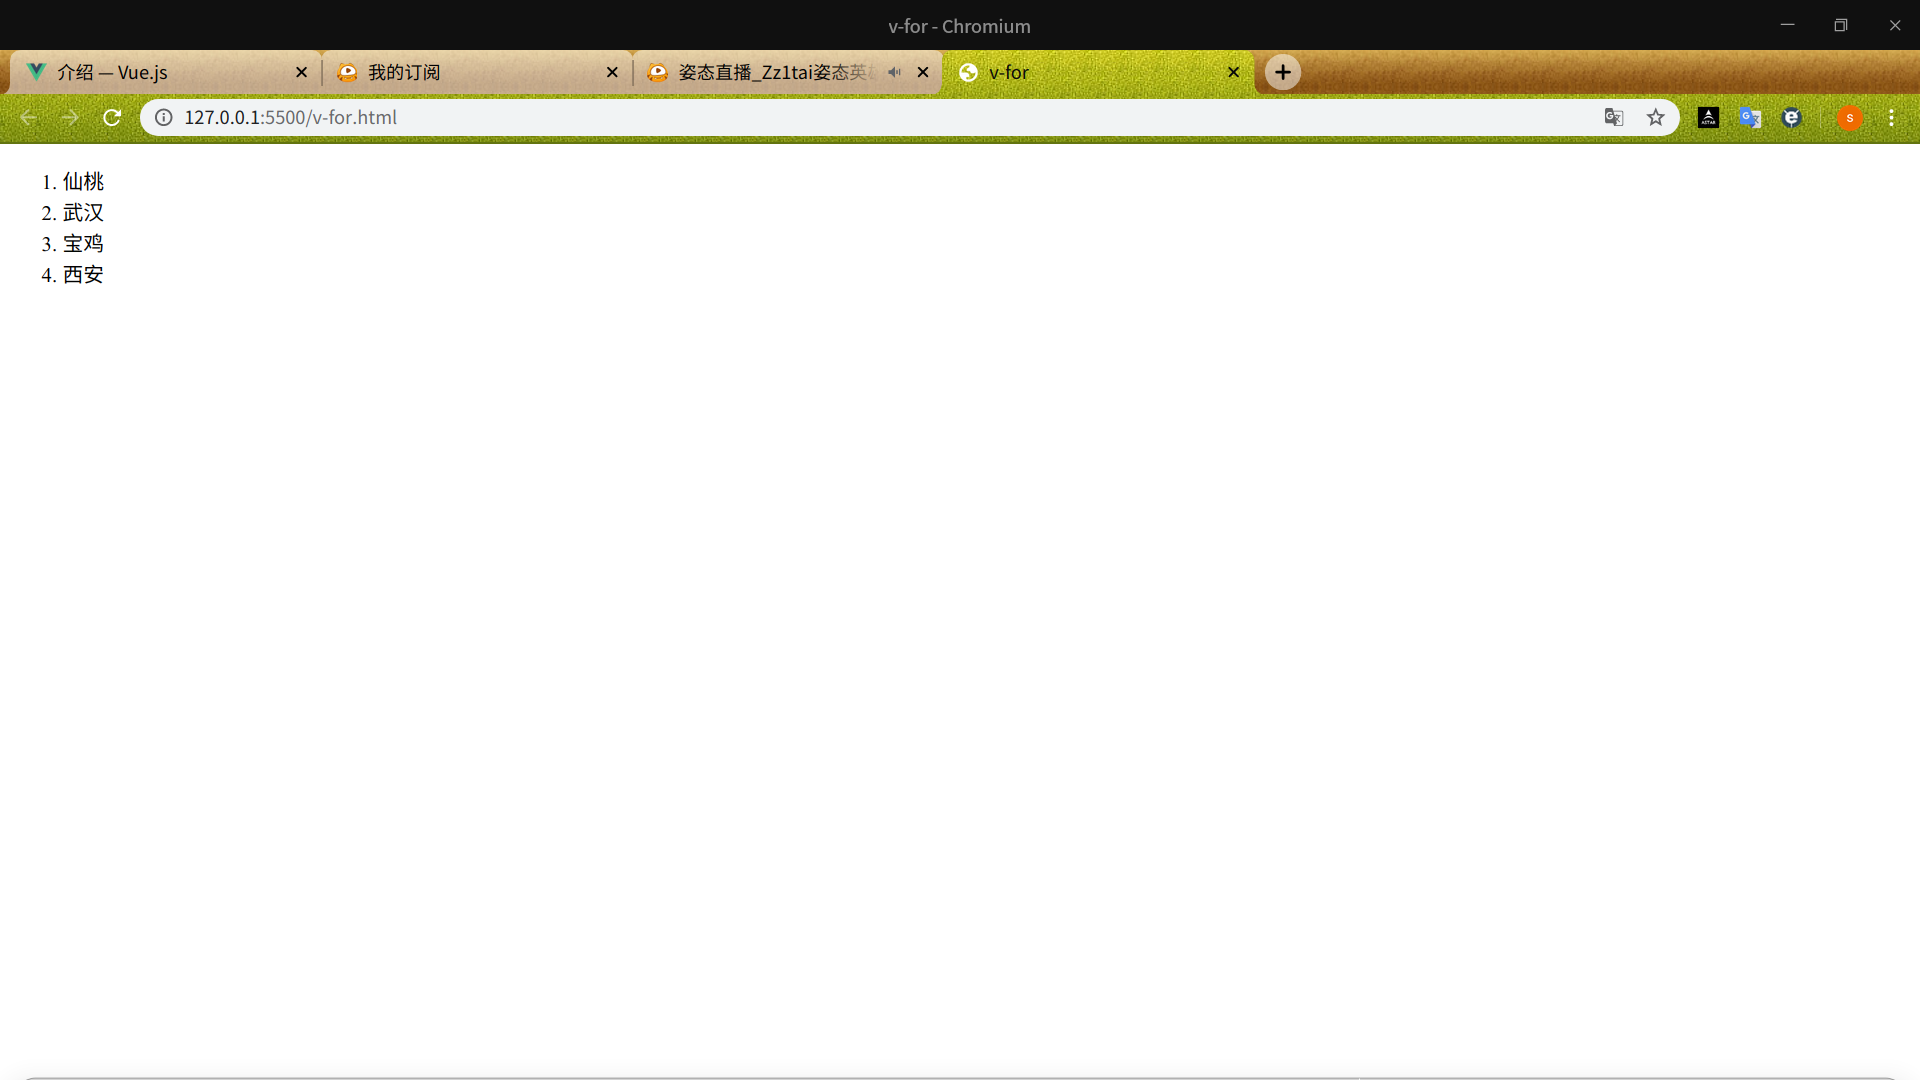
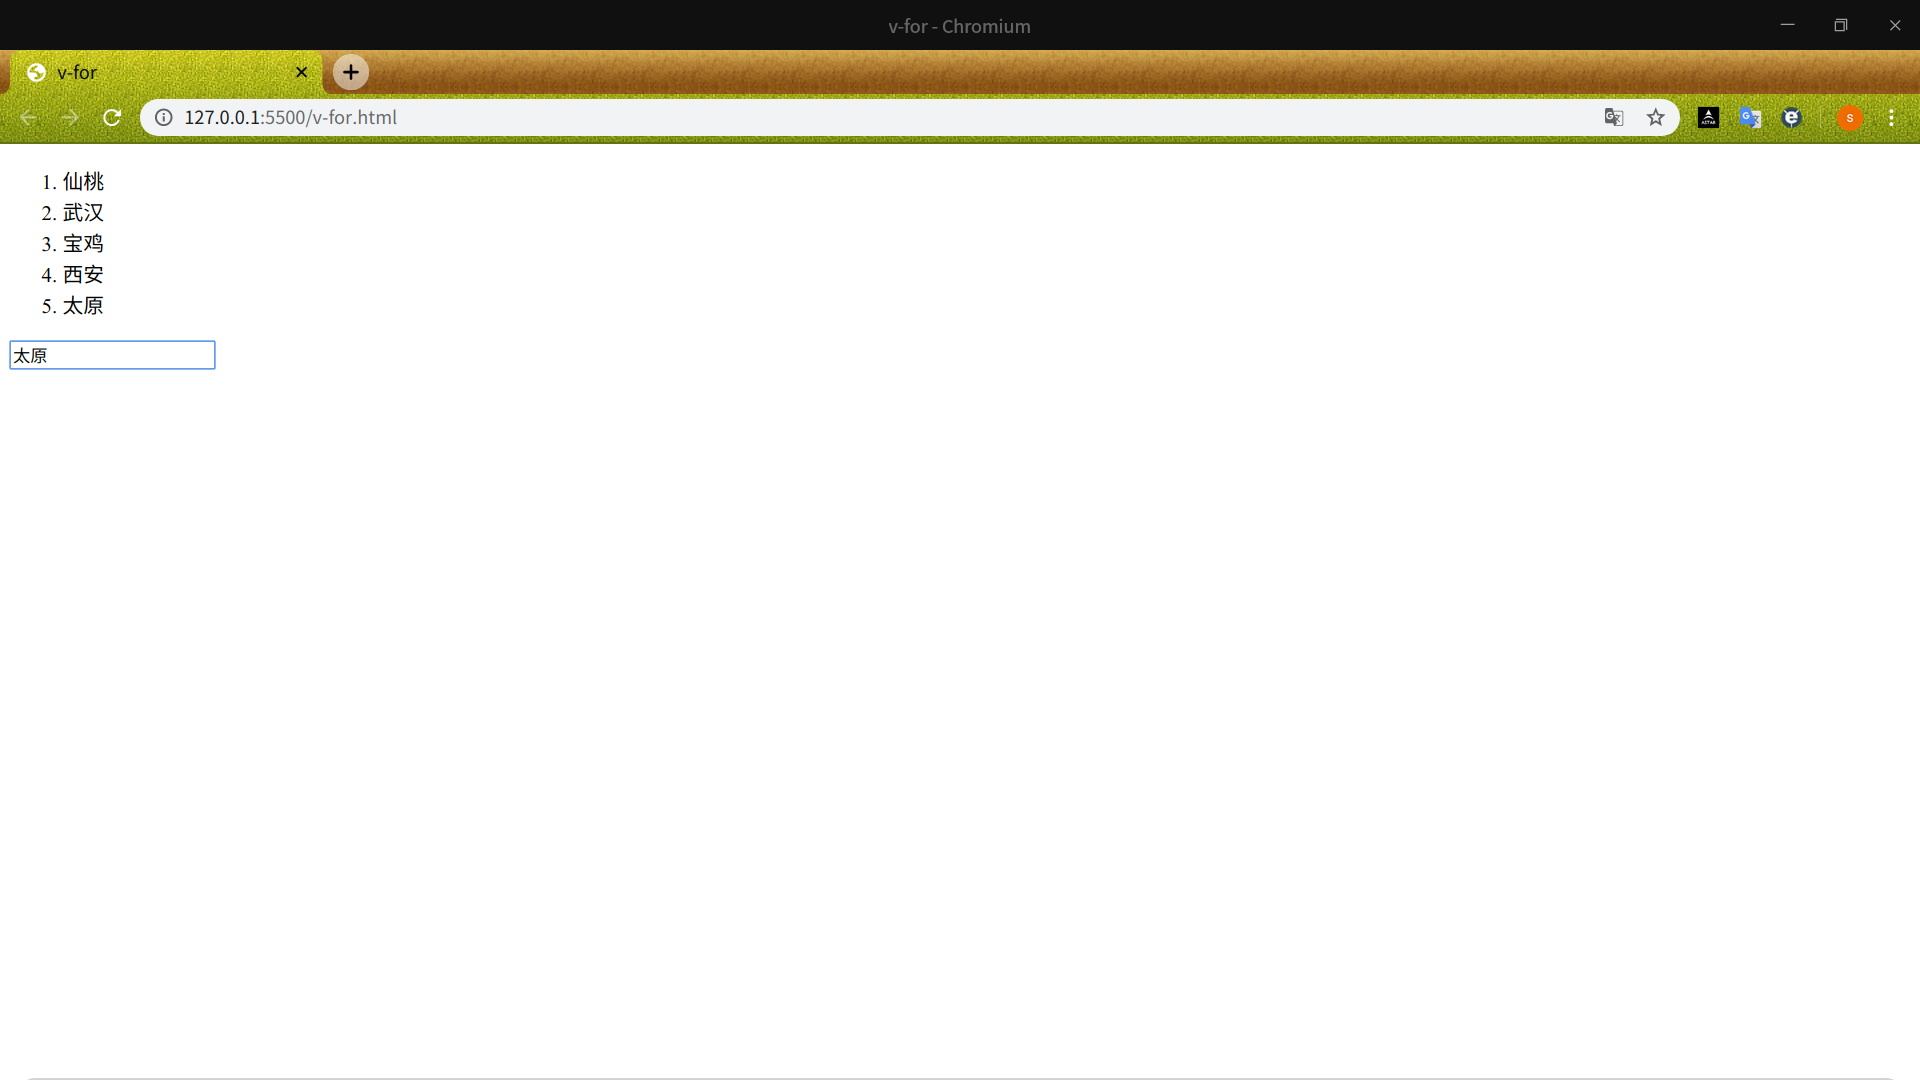
v-for

Changed region(s): [[0.0, 0.0, 0.6875, 0.0917], [0.0312, 0.275, 0.0625, 0.3056], [0.0, 0.3056, 0.0312, 0.3361]]

diff --git a/v-for.md b/v-for.md
@@ -1,6 +1,6 @@
 # v-for
 
-使用v-for来遍历数据
+使用v-for来遍历数据,使用一个输入框获取newCity值(v-model)，设置键盘回车事件将输入的内容添加到citys中
 
 ```html
 <!DOCTYPE html>
@@ -18,6 +18,7 @@
                 {{city}}
             </li>
         </ol>
+        <input type="text" v-model="newCity" @keyup.enter="addCity" placeholder="输入要添加的城市">
     </div>
     <script src="https://cdn.jsdelivr.net/npm/vue/dist/vue.js"></script>
     <script>
@@ -25,7 +26,13 @@
             el:'#app',
             data:{
                 citys:['仙桃','武汉','宝鸡','西安'],
+                newCity:'',
             },
+            methods:{
+                addCity:function(){
+                    this.citys.push(this.newCity);
+                }
+            }
         })
     </script>
 </body>
